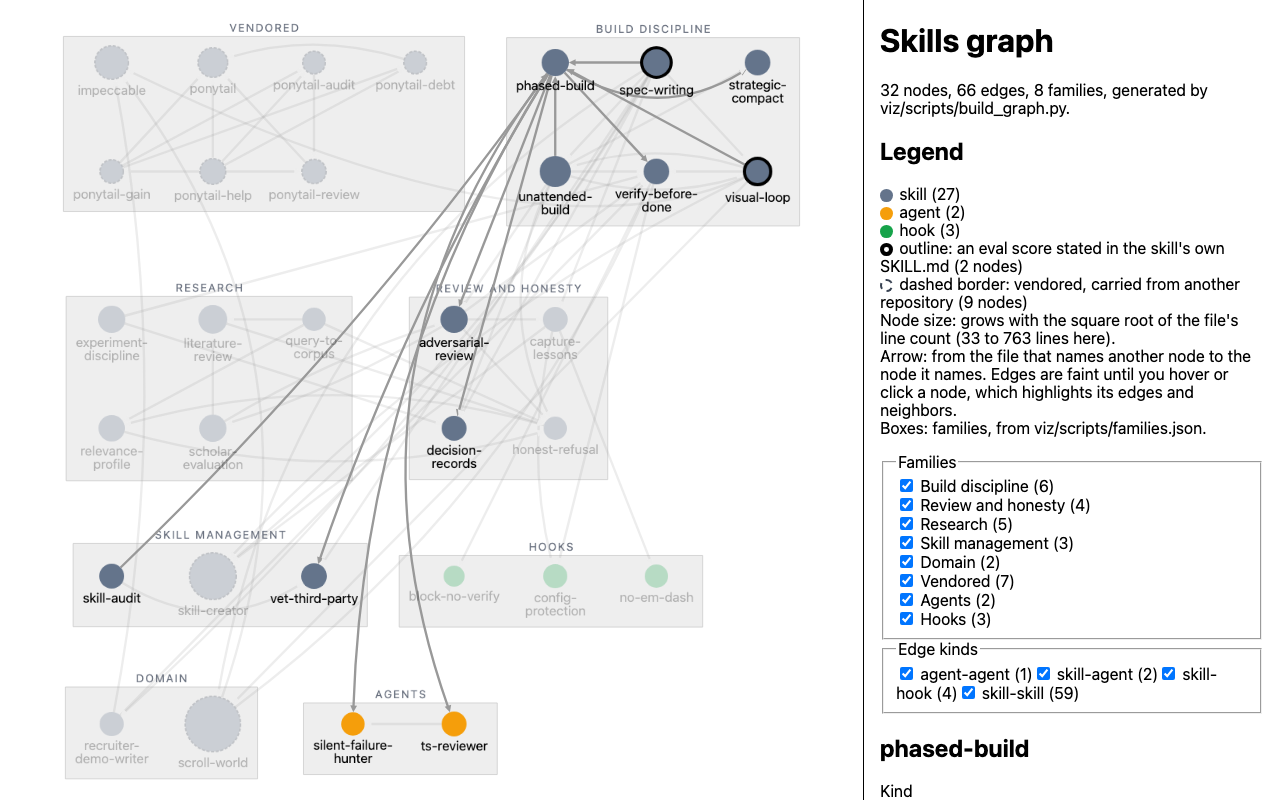
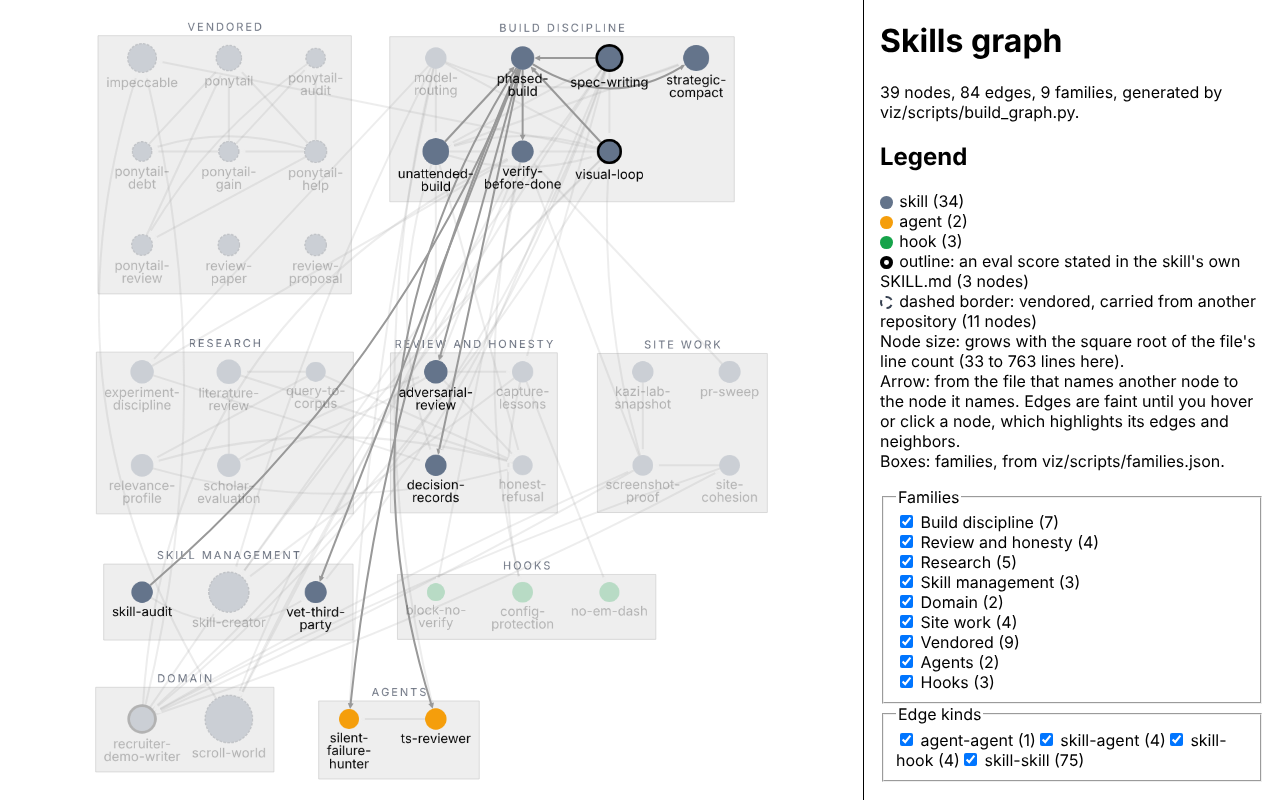
chore: list the new skills, add the site-work family, regenerate the graph
Claude-Session: https://claude.ai/code/session_0179EYy7peqkLTyD82paqRnN

diff --git a/README.md b/README.md
@@ -15,6 +15,15 @@ Personal Claude Code skills library. Reusable instructions that shape how Claude
 - **strategic-compact**: When to `/compact`, `/clear`, or start a fresh session, plus a `progress.md` handoff format so state lives on disk, not in the conversation. Adapted from ECC's `strategic-compact`.
 - **unattended-build**: The autonomy contract for one coding session running many phases with no human check-in. Only work whose acceptance criteria are runnable commands runs unattended; taste-based work (visual design, copy, layout) gets short human-in-the-loop rounds instead. It writes decide-yourself and stop-and-ask lists to `STANDING-DECISIONS.md`, keeps a resumable `PROGRESS.md`, reports only observed values, and has its diff independently reviewed at each phase boundary. Written from one real build and one failed attempt, not adapted from a third party.
 
+### armaankazi.com workflow skills
+
+Written in November 2026 from the patterns that repeated across the armaankazi.com project threads, not adapted from a third party.
+
+- **screenshot-proof**: One script (`scripts/shoot.mjs`) that takes desktop (1280 by 800) and phone (390 by 844) screenshots of any running page and reports HTTP status, page and console errors, failed requests, horizontal overflow, and the word count of `<main>`, exiting 1 on a broken page. The skill adds the rules: look at every image, save it where the person can open it, and say what a screenshot cannot prove (live API calls, deployed behavior).
+- **site-cohesion**: The map of what has to change together when a route, demo, project, or section is added, renamed, or removed across the four armaankazi.com sections (chooser tiles, section headers, demo cards, the site guide's knowledge, the `/lab` and `/setup` data feeds), and how to check nothing was missed.
+- **kazi-lab-snapshot**: Runs the kazi_lab UI on real data when Neon is unreachable. `scripts/export-snapshot.mjs` makes a read-only export on the Mac; `scripts/load-snapshot.sh` loads it into a throwaway local Postgres without pgvector, checks every table's row count, and prints the `DATABASE_URL`.
+- **pr-sweep**: Clears open PRs across repos with an inventory, a merge plan Armaan approves first, `/code-review` where no bot reviewed, green checks on the merged commit, merges in dependency order, and memory cleanup after.
+
 ### Workflow and research skills (adapted from ECC)
 
 - **phased-build**: Runs a coding task as gated phases (intake, research, plan, implement, review, verify, commit). Each phase writes one file the next phase reads; the user approves the plan and the commit. Covers add, change, fix, and refactor operations, subagent delegation, and parallel worktrees.
@@ -100,6 +109,10 @@ ln -s ~/dev/ark-skills/capture-lessons ~/.claude/skills/capture-lessons
 ln -s ~/dev/ark-skills/decision-records ~/.claude/skills/decision-records
 ln -s ~/dev/ark-skills/skill-audit ~/.claude/skills/skill-audit
 ln -s ~/dev/ark-skills/vet-third-party ~/.claude/skills/vet-third-party
+ln -s ~/dev/ark-skills/screenshot-proof ~/.claude/skills/screenshot-proof
+ln -s ~/dev/ark-skills/site-cohesion ~/.claude/skills/site-cohesion
+ln -s ~/dev/ark-skills/kazi-lab-snapshot ~/.claude/skills/kazi-lab-snapshot
+ln -s ~/dev/ark-skills/pr-sweep ~/.claude/skills/pr-sweep
 ```
 
 Symlink the subagents:
@@ -168,6 +181,12 @@ ark-skills/
 │   └── SKILL.md, scripts/inventory.py
 ├── vet-third-party/
 │   └── SKILL.md, scripts/scan.py
+├── screenshot-proof/
+│   └── SKILL.md, scripts/shoot.mjs
+├── kazi-lab-snapshot/
+│   └── SKILL.md, scripts/export-snapshot.mjs, scripts/load-snapshot.sh
+├── site-cohesion/, pr-sweep/
+│   └── SKILL.md
 ├── contexts/
 │   └── dev.md, review.md, research.md
 ├── agents/

diff --git a/viz/README.md b/viz/README.md
@@ -46,7 +46,7 @@ Files are read as UTF-8; a leading byte-order mark is ignored.
 
 - **name, description:** the frontmatter fields of the same names. Plain, quoted, and block (`>` or `|`) scalars are read.
 - **lines:** the number of lines as Python's `str.splitlines()` counts them. This is one more than `wc -l` when a file has no trailing newline (for example `impeccable/SKILL.md`).
-- **family:** read from `viz/scripts/families.json`, an explicit taxonomy: build-discipline, review-and-honesty, research, skill-management, domain, vendored, agents, and hooks, each listing its members by name (a skill's or agent's frontmatter `name`, a hook's file stem). Families appear in the file's order. The build fails if a node is not listed, if the file lists a name that is not a node, if a name is listed twice, or if the file is malformed, so a new or renamed skill cannot land in a default family. To add a skill, add its name to one family in that file.
+- **family:** read from `viz/scripts/families.json`, an explicit taxonomy: build-discipline, review-and-honesty, research, skill-management, domain, site-work, vendored, agents, and hooks, each listing its members by name (a skill's or agent's frontmatter `name`, a hook's file stem). Families appear in the file's order. The build fails if a node is not listed, if the file lists a name that is not a node, if a name is listed twice, or if the file is malformed, so a new or renamed skill cannot land in a default family. To add a skill, add its name to one family in that file.
 - **vendored:** `true` for every node named in the `"vendored"` list in `viz/scripts/families.json`, otherwise `false`. The list is separate from the families, so a vendored skill can stay in the family that describes what it does: today it names impeccable and the six ponytail skills (the vendored family), plus skill-creator (from anthropics/skills) and scroll-world (from oso95/scroll-world), as README.md records. A name in the list that is not a node, a name listed twice, or a malformed list fails the build. The page draws vendored nodes with a dashed border.
 - **origin:** the first body line that starts with "Adapted from", "Vendored from", or "Written for this repo" (hooks: a `// Adapted from` or `// Idea from` comment). `license` is the first license name in that line, matched as `MIT`, `Apache 2.0` (or `Apache License 2.0`), `BSD-<n>-Clause`, or `GPL-<n>`. If there is no such line but the frontmatter has a `license` field, origin is `{"from": "frontmatter", "license": ...}`. Otherwise it is omitted.
 - **license_notice:** the line in `licenses/ECC-LICENSE` that lists the node by skill name or by path, with the license named in that file.
